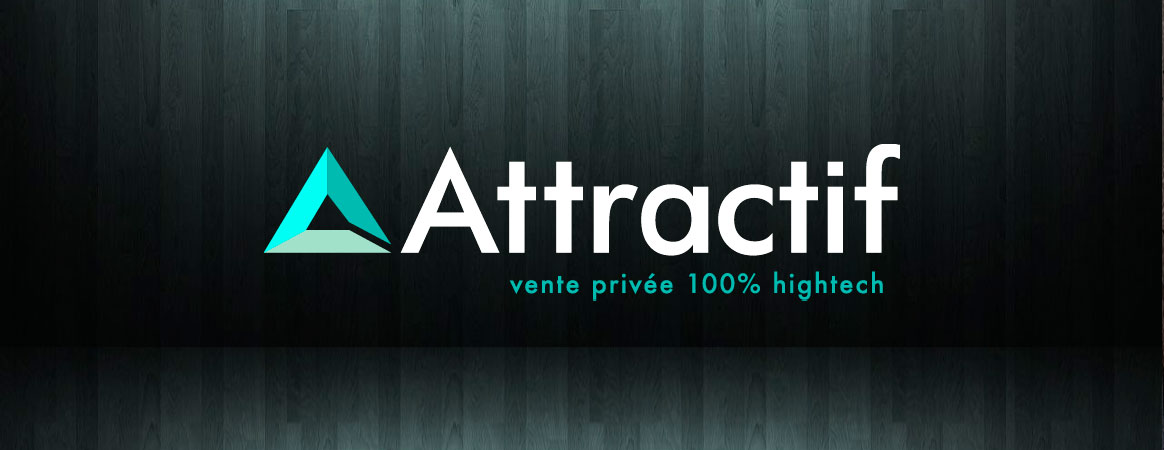
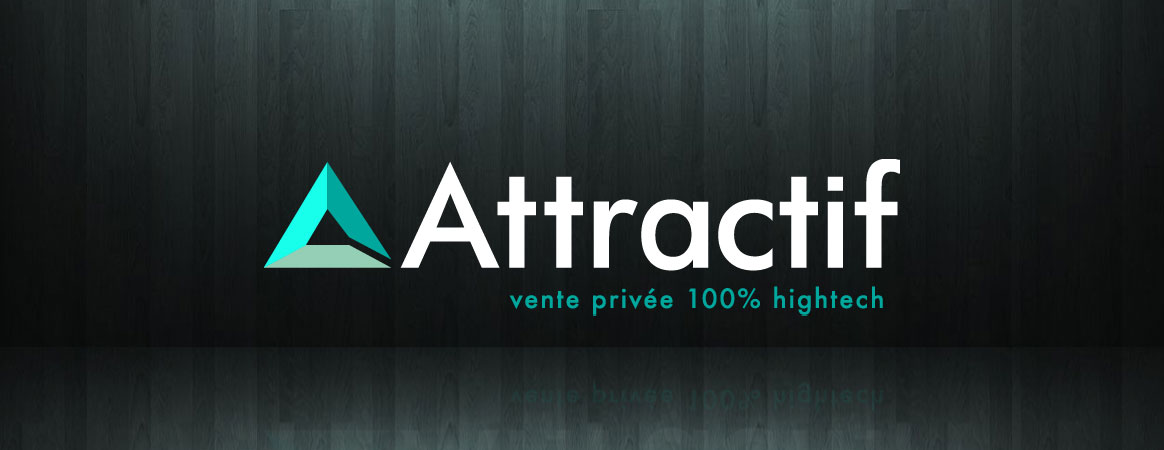
fix responsive

diff --git a/front/css/layout.css b/front/css/layout.css
@@ -70,7 +70,6 @@ body {
 .navbar .container .navbar-nav {
     float: none;
     margin: 0 auto;
-    width: 60%;
 }
 .navbar .container .navbar-nav li a {
     font-weight: bold;
@@ -96,7 +95,7 @@ body {
     transition: all 1s;-webkit-transition: all 1s;-moz-transition: all 1s;-o-transition: all 1s;
 }
 header.carousel {
-    background: repeat #47D9C9;
+    background: url('../img/slider_bg.jpg') repeat-x #000;
     height: 450px;
 }
 .carousel-inner {
@@ -104,7 +103,7 @@ header.carousel {
     margin: 0 auto;
 }
 .carousel-control.left, .carousel-control.right {
-    background: repeat #47D9C9;
+    background: url('../img/slider_bg.jpg') repeat-x #000;
     opacity: 1;
 }
 header.carousel .carousel-caption.left {
@@ -130,7 +129,6 @@ header.carousel .carousel-caption h2, header.carousel .carousel-caption div {
 #content .container {
     box-shadow: 0 0 27px 4px rgba(0, 0, 0, 0.25);-webkit-box-shadow: 0 0 27px 4px rgba(0, 0, 0, 0.25);-moz-box-shadow: 0 0 27px 4px rgba(0, 0, 0, 0.25);-o-box-shadow: 0 0 27px 4px rgba(0, 0, 0, 0.25);
     background: #fff;
-    width: 1164px;
 }
 /* TIMER */
 #content .container .timer {
@@ -239,12 +237,24 @@ header.carousel .carousel-caption h2, header.carousel .carousel-caption div {
 #content .container .highlight-products .owl-theme .owl-controls .owl-buttons .owl-next{
     left: 545px;
 }
+@media (max-width: 1124px) {
+    #myCarousel {
+        display: none;
+    }
+}
+@media (min-width: 1124px) {
+    #responsiveCarousel {
+        display: none;
+    }
+}
 @media (max-width: 768px) {
+
     #content .container .highlight-products .owl-theme .owl-controls .owl-buttons .owl-prev, #content .container .highlight-products .owl-theme .owl-controls .owl-buttons .owl-next{
         display: none;
     }
 }
 @media (min-width: 768px) {
+
     #content .container .highlight-products #owl-demo .owl-pagination {
         display: block;
     }

diff --git a/front/index.php b/front/index.php
@@ -4,6 +4,7 @@ include('lib/dbconnect.php');
 include('header.php');
 ?>
 <!-- Slider -->
+<div id="responsiveCarousel"><img class="img-responsive img-centered" src="img/slide1.jpg" /></div>
 <header id="myCarousel" class="carousel slide">
     <ol class="carousel-indicators">
         <li data-target="#myCarousel" data-slide-to="0" class="active"></li>
@@ -41,7 +42,7 @@ include('header.php');
     <div class="container">
         <!-- Selection 3 blocks -->
         <div class="row timer">
-            <div class="col-md-12 col-sm-6">
+            <div class="col-md-12">
                 <?php
                 //Timer
                 $req = $bdd->prepare('SELECT id, date FROM event WHERE date >= NOW()');
